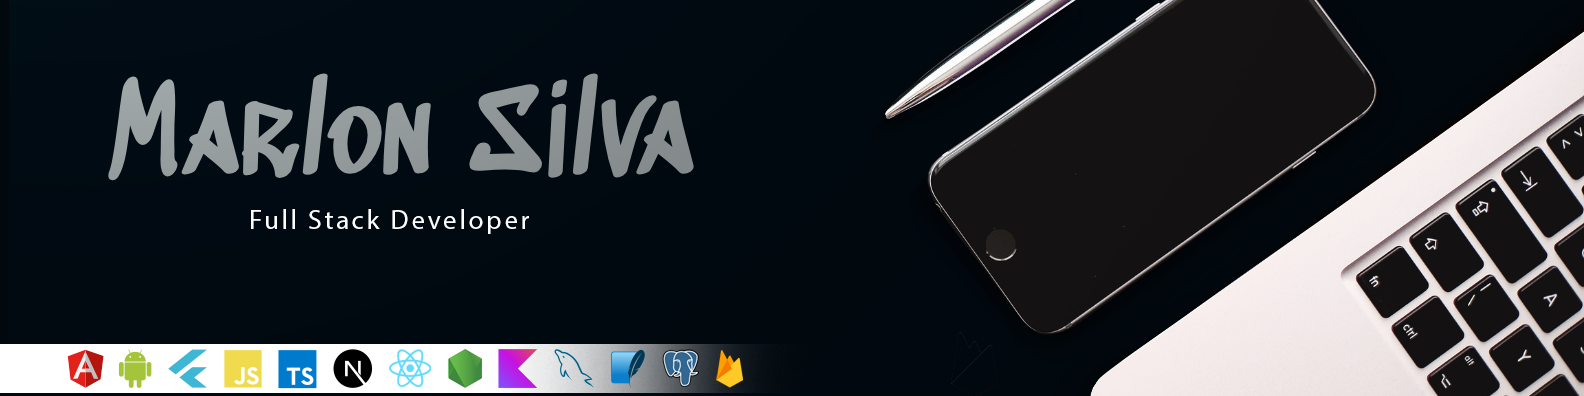
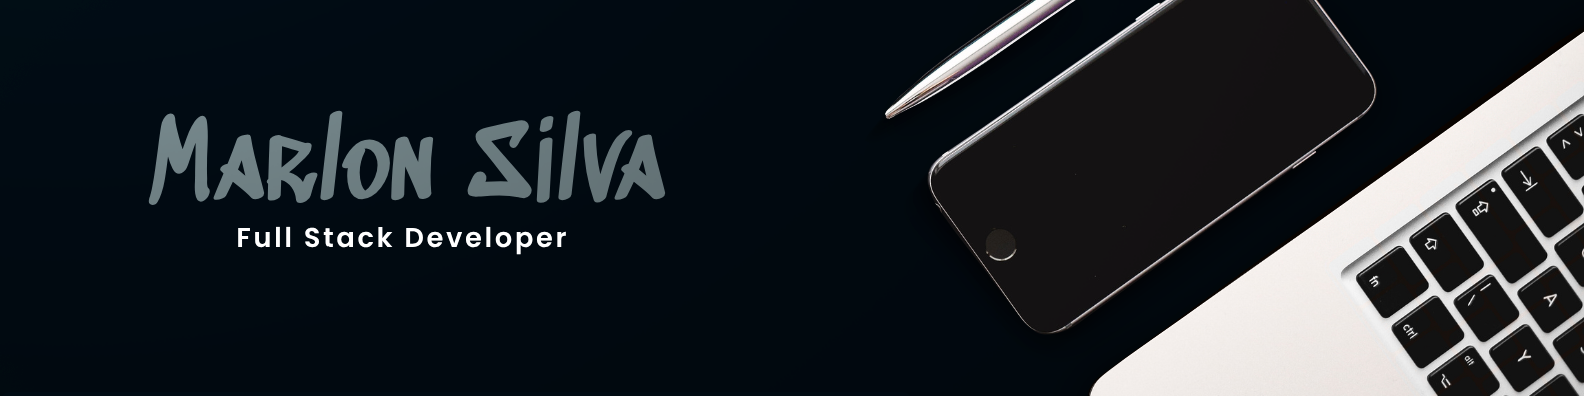
change image

Changed region(s): [[0.0619, 0.1818, 0.464, 0.6364], [0.0, 0.8485, 0.4949, 1.0]]

diff --git a/README.md b/README.md
@@ -1,3 +1,10 @@
+<div>
+  <a href="https://github.com/marlonsilvadev">
+   <img src="./assets/capa.png" alt="Capa do perfil"/>
+  </a>
+</div>
+
+##
 ### Driven by continuous learning, curiosity, and problem-solving.
 My journey in technology began in technical support and the implementation of time tracking and ERP systems, building a strong business vision and hands-on experience in transforming real problems into practical solutions. Today, I am a Full Stack Developer with 3 years of experience in Software Engineering, working on Web, Mobile, and Cross-Platform applications, from requirements gathering and architecture definition to deployment and evolution of digital products in production.
 
@@ -7,11 +14,7 @@ Flutter, React Native, React, Next.js, Angular, Node.js, Java (Spring Boot), Kot
 Currently, I am deepening my knowledge in
 Cloud Computing (AWS, Azure, and Google Cloud), Artificial Intelligence, Generative AI, LLMs, AI-Assisted Development, Python, and Data Science, seeking to apply these technologies to create scalable, secure, efficient solutions with real impact for users and businesses.
 ##
-<div>
-  <a href="https://github.com/marlonsilvadev">
-   <img src="./assets/capa.png" alt="Capa do perfil"/>
-  </a>
-</div>
+
 <div style="display: inline_block"><br>
    <img align="center" alt="Marlon-Flutter" height="30" width="40" src="https://raw.githubusercontent.com/devicons/devicon/master/icons/flutter/flutter-original.svg">
    <img align="center" alt="Marlon-React" height="30" width="40" src="https://raw.githubusercontent.com/devicons/devicon/master/icons/react/react-original.svg">
